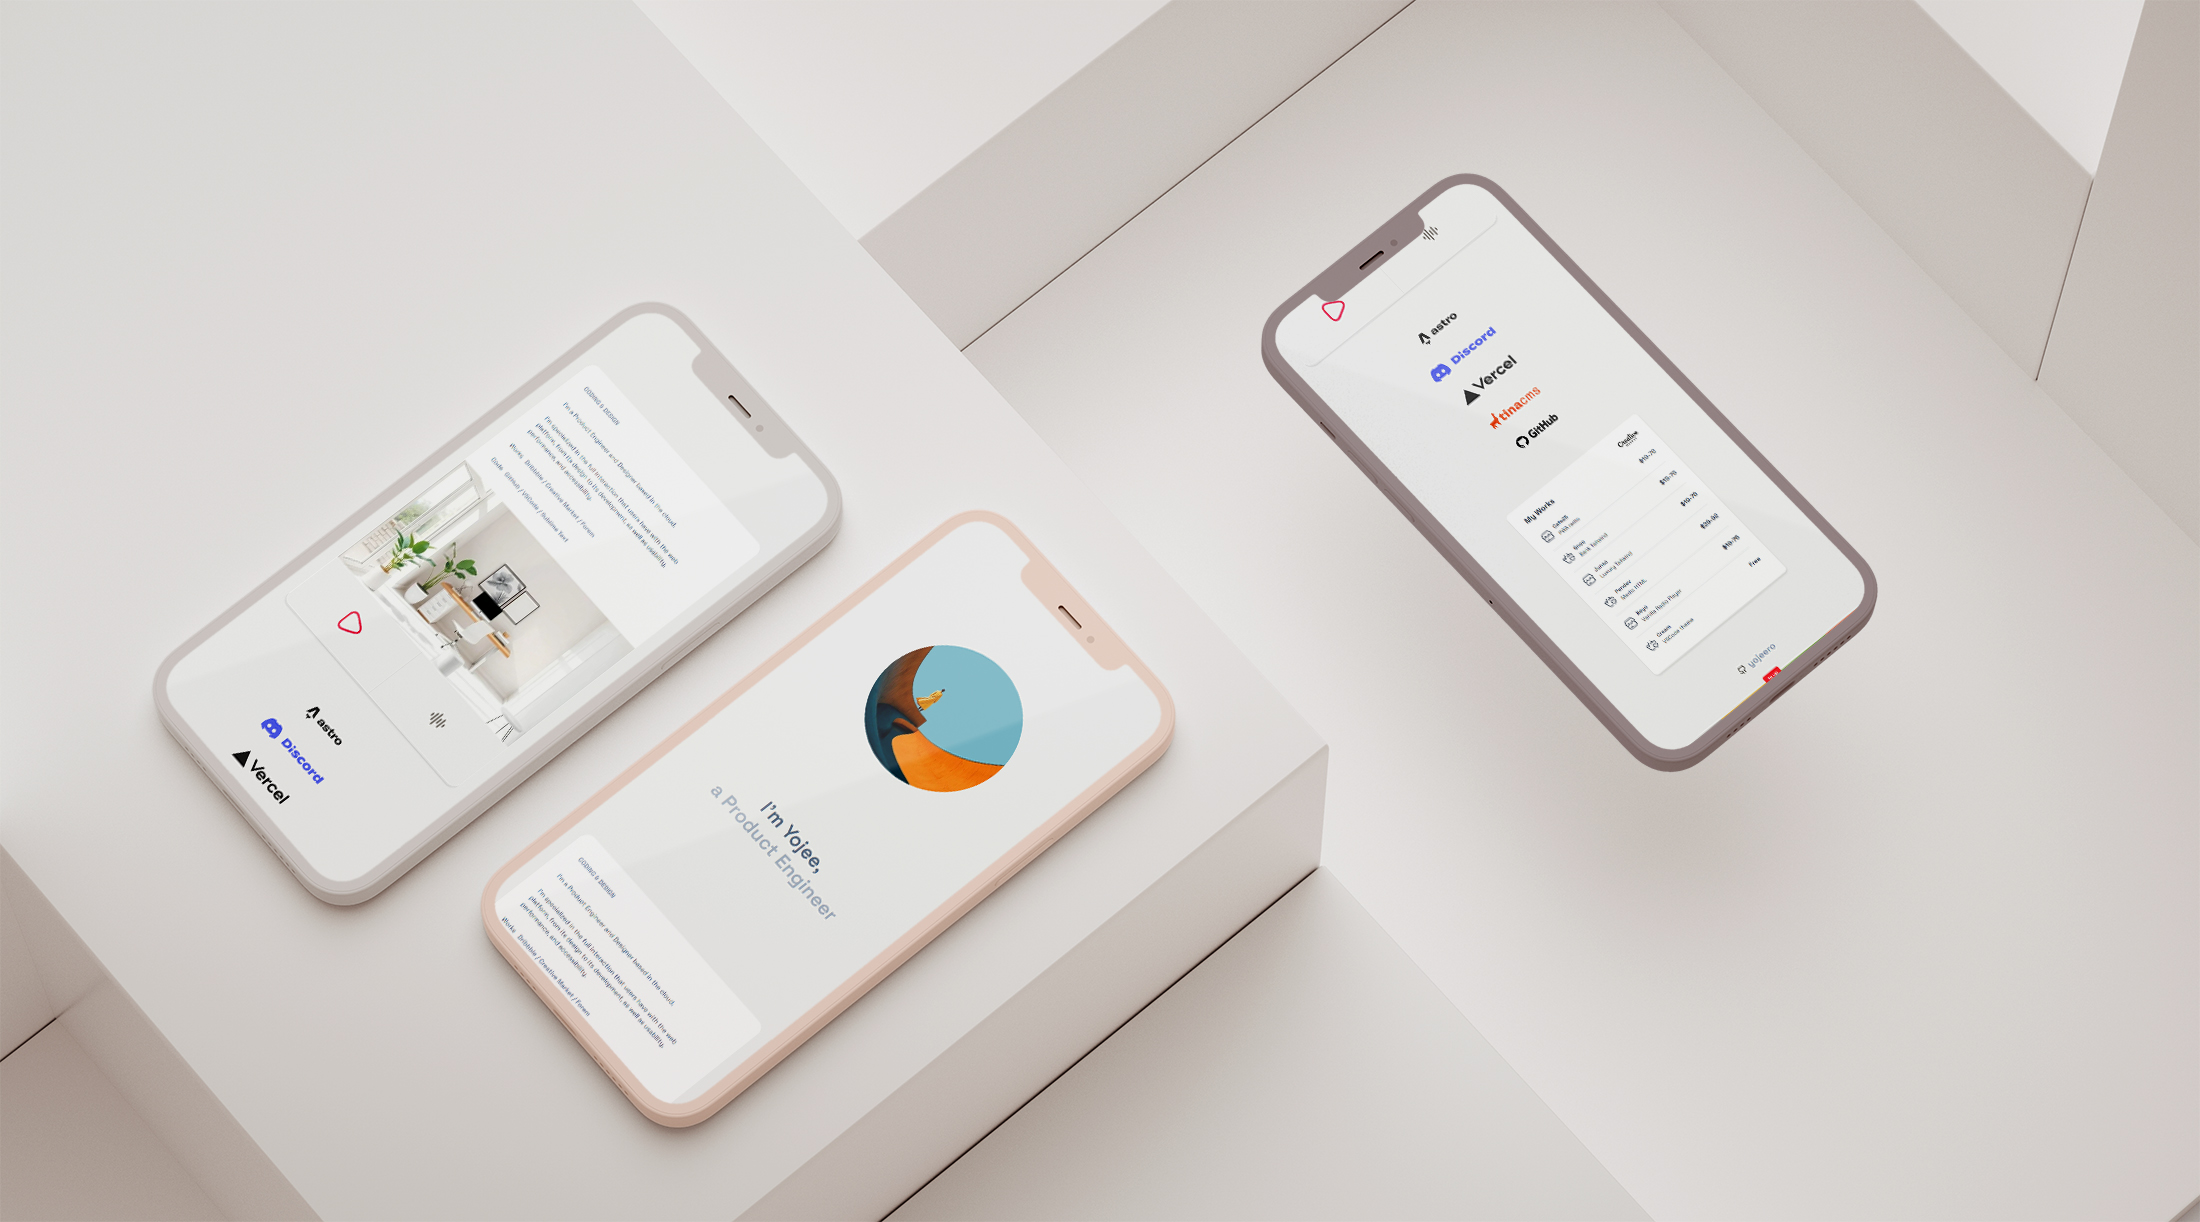
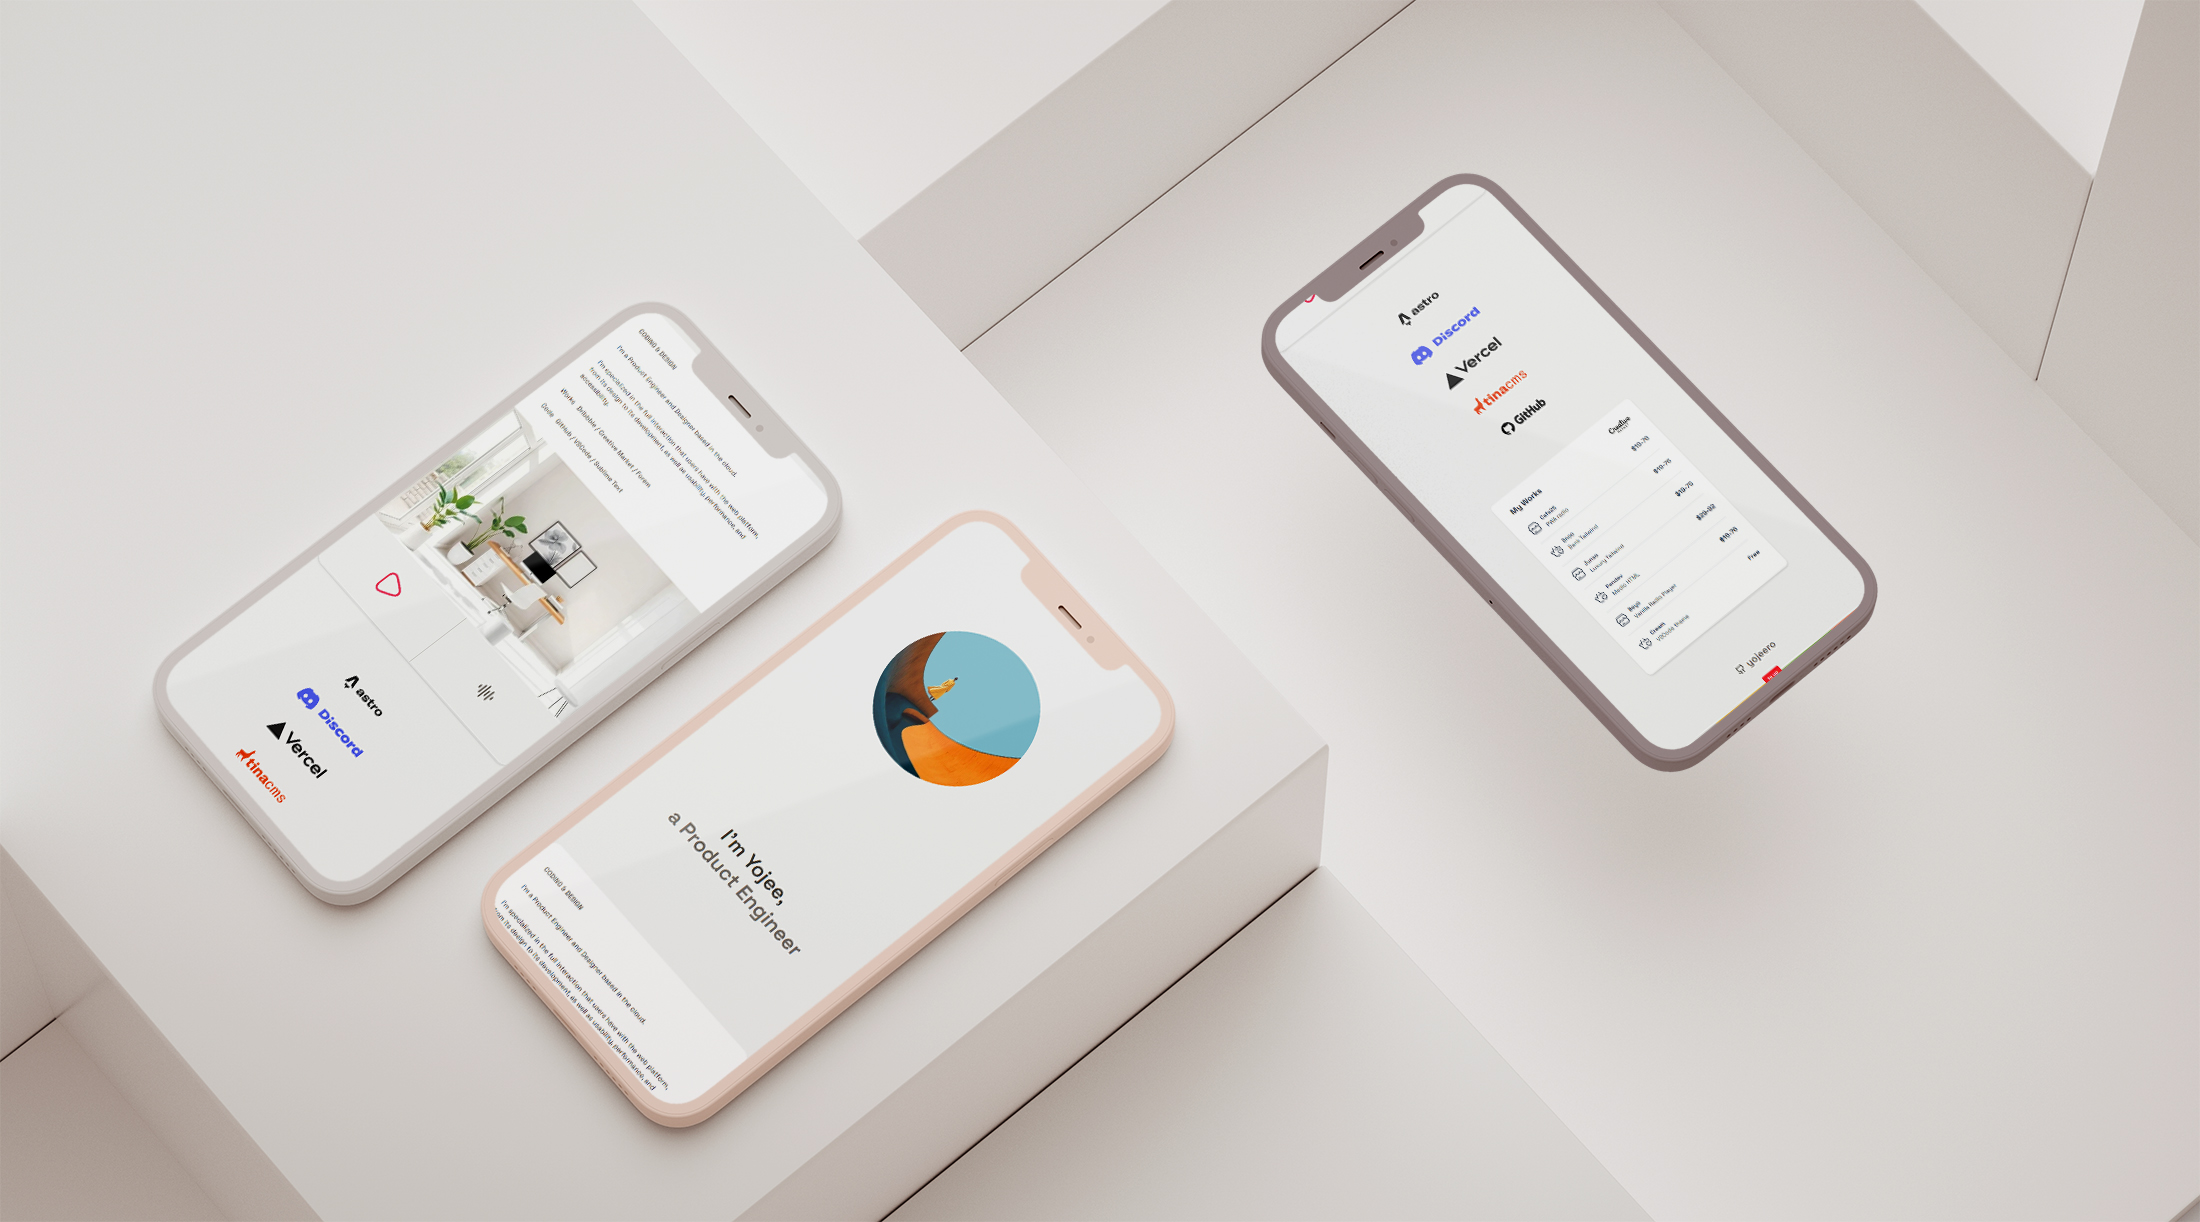
update

diff --git a/index.html b/index.html
@@ -37,9 +37,11 @@
 
 <body class="loading">
 
+  <a href="#main-content" class="skip-link">skip to content</a>
+
   <div class="loader"><div class="line"></div></div>
 
-  <main id="home">
+  <main id="home">   
 
     <div class="header">
 
@@ -51,7 +53,9 @@
         
       </div>
 
-      <h1>I'm Yojee, <span>a Product Engineer</span></h1>
+      <div id="main-content" tabindex="-1"></div>
+
+      <h1>I'm Yojee, <span>a Product Engineer</span></h1>       
 
     </div>
 
@@ -103,7 +107,7 @@
 
         <div class="controls">
 
-          <button id="playToggle" aria-label="Play" class="playIcon">
+          <button id="playToggle" aria-label="Play" aria-pressed="false" class="playIcon">
 
             <svg viewBox="0 0 24 24">
               <path fill="none" stroke="currentColor" stroke-linecap="round" stroke-linejoin="round" stroke-width="1.3"
@@ -113,7 +117,7 @@
 
           </button>
 
-          <button id="stopIcon" class="stopIcon">      
+          <button id="stopIcon" aria-label="Stop radio" aria-pressed="false" class="stopIcon">      
 
             <svg viewBox="0 0 24 24">
               <path fill="none" stroke="currentColor" stroke-linecap="round" stroke-linejoin="round" stroke-width="1.3"
@@ -474,12 +478,18 @@
         playBtn.style.display = "block";
         stopBtn.style.display = "none";
         stopWave();
+        playBtn.setAttribute("aria-label", "Play radio");
+        playBtn.setAttribute("aria-pressed", "false");
+        stopBtn.setAttribute("aria-pressed", "false");
       };
 
       const showStopUI = () => {
         playBtn.style.display = "none";
         stopBtn.style.display = "block";
         startWave();
+        stopBtn.setAttribute("aria-label", "Stop radio");
+        playBtn.setAttribute("aria-pressed", "true");
+        stopBtn.setAttribute("aria-pressed", "true");
       };
 
       const reconnect = () => {

diff --git a/src/css/style.css b/src/css/style.css
@@ -94,7 +94,7 @@ main {
 
     grid justify-center justify-self-center
 
-    text-slate-500 leading-relaxed
+    text-stone-700 leading-relaxed
   ;
 }
 
@@ -143,7 +143,7 @@ main {
 
 .header h1 span {
   @apply 
-    text-slate-400/70 leading-none
+    text-stone-500 leading-none
   ;
 }
 
@@ -176,7 +176,7 @@ main {
 
 .about-info h3 {
   @apply 
-    text-slate-400 uppercase  leading-10
+    text-stone-500 uppercase  leading-10
   ;
 }
 
@@ -188,7 +188,7 @@ main {
 
 .about-info a {
   @apply 
-  text-slate-400 
+  text-stone-500  
 
   transition-transform transition-opacity duration-300
 
@@ -324,9 +324,25 @@ main {
   ;
 }
 
+.brand a {
+  @apply 
+    inline-flex
+
+    min-h-8 min-w-8 
+    
+    cursor-pointer 
+    
+    items-center justify-center 
+; 
+}
+
 .brand img {
   @apply 
-    h-10 object-cover
+    h-10 object-contain
+
+    transition-transform ease-in-out duration-300 
+    
+    hover:py-1 hover:px-2 
   ;
 }
 
@@ -415,6 +431,8 @@ main {
     hover:text-green-600
 
     ms-3
+
+    inline-flex items-center min-h-6
   ;
 }
 
@@ -448,7 +466,7 @@ footer a {
   @apply 
     flex items-center justify-center 
 
-    text-2xl text-slate-400 
+    text-2xl text-stone-500 
     
     hover:text-green-600
   ;
@@ -506,6 +524,30 @@ footer svg:hover {
 
     bg-linear-to-r from-lime-600 from-50% to-orange-600 to-50%
   ;
+}
+
+.skip-link {
+
+  @apply 
+    absolute -top-[48px] left-1/2 -translate-x-1/2
+
+    z-10000
+
+    w-40 h-12
+
+    grid place-items-center
+
+    rounded-bl-sm rounded-br-sm outline-0
+
+    text-sm text-stone-500 
+
+    bg-white
+  ;
+
+}
+
+.skip-link:focus {
+  top: 0;
 }
 
 }
